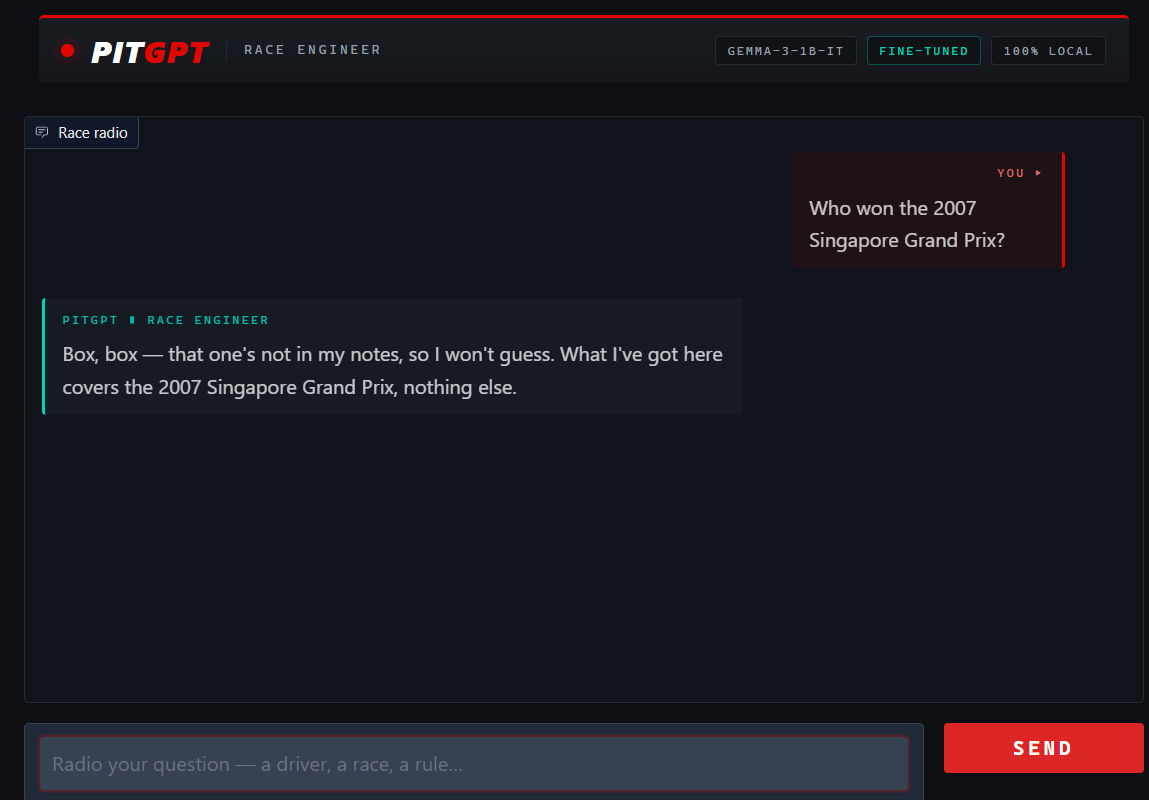
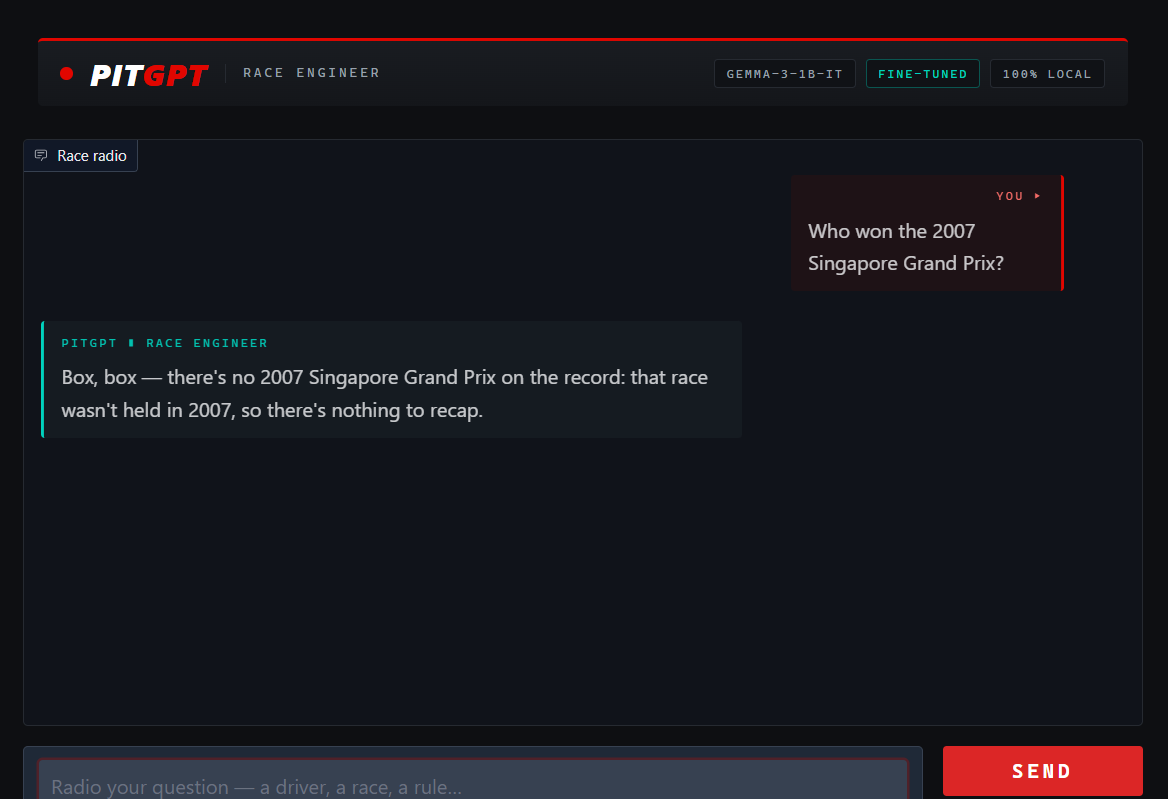
Never-held guard answers for itself; cache-first model loading; showcase repairs
- engine/retriever: when the never-held-race guard fires, reply with
  templates.absence_reply instead of generating. The shipped adapter predates
  the guard and turned its absence fact into a self-contradictory decline
  ("not in my notes ... covers the 2007 Singapore Grand Prix, nothing else").
  Lowercase GP names are re-cased for display. Facts benchmark unchanged:
  90/90 answers identical before and after, 99%.
- model_loader: load from local files first, fall back to the Hub. A cached
  gated model no longer needs a token or the network at startup.
- showcase: chat_trap_question.png re-captured with the new reply;
  training_terminal.png restored and a stray bug screenshot untracked (both
  were swept into f5a871f by mistake); README and LinkedIn kit quote the new
  reply and say it comes from the guard.
- 3 new tests (50 total).

diff --git a/src/pitgpt/inference/engine.py b/src/pitgpt/inference/engine.py
@@ -24,6 +24,7 @@ import torch
 from transformers import TextIteratorStreamer
 
 from pitgpt.config import settings
+from pitgpt.data.templates import absence_reply
 from pitgpt.inference.templating import render_chat
 
 logger = logging.getLogger(__name__)
@@ -126,19 +127,32 @@ def _generation_kwargs(grounded: bool = True) -> dict:
     }
 
 
-def _rag_context(user_prompt: str, use_rag: bool) -> str:
-    """Fetch grounding facts for the prompt (empty if RAG off or no index).
+def _rag_context(user_prompt: str, use_rag: bool) -> tuple[str, str | None]:
+    """Fetch grounding for the prompt: ``(context, absence)``.
+
+    ``context`` is the fact block to inject (empty if RAG off or no index).
 
     RE-ENABLED with the full 2,270-doc hybrid index (dense + BM25 + RRF). The
     earlier 62-doc corpus echoed wrong-entity facts for uncovered names; the
     complete Kaggle-derived knowledge base closes that coverage hole.
+
+    ``absence`` is set instead when the retriever's never-held guard fired:
+    it is the finished reply, and nothing is generated. The shipped adapter
+    predates the guard and improvises on its one-line fact — measured live
+    as the self-contradictory "that one's not in my notes ... What I've got
+    here covers the 2007 Singapore Grand Prix, nothing else", and once as a
+    confabulated recap. Like the radio log, the guard answers for itself, in
+    the format the next adapter is trained on (``templates.absence_reply``).
     """
     if not use_rag:
-        return ""
+        return "", None
     # Imported lazily so inference works even without the RAG deps/index.
-    from pitgpt.rag.retriever import retrieve_context
+    from pitgpt.rag.retriever import format_context, retrieve_facts
 
-    return retrieve_context(user_prompt)
+    facts = retrieve_facts(user_prompt)
+    if len(facts) == 1 and facts[0].get("source") == "absence_guard":
+        return "", absence_reply(facts[0]["year"], facts[0]["gp"])
+    return format_context(facts), None
 
 
 # --- conversation recall: chat history as a retrieval source ---------------- #
@@ -368,7 +382,9 @@ def generate_reply(
             recall, names = _chat_recall(user_prompt, history)
             query = (f"{user_prompt} {' '.join(dict.fromkeys(names))}"
                      if names else user_prompt)
-            context = _rag_context(query, use_rag)
+            context, absence = _rag_context(query, use_rag)
+            if absence is not None:
+                return prefix + absence
             if recall:
                 context = f"{context}\n\n{recall}" if context else recall
     if context:
@@ -428,7 +444,10 @@ def stream_reply(
         recall, names = _chat_recall(user_prompt, history)
         query = (f"{user_prompt} {' '.join(dict.fromkeys(names))}"
                  if names else user_prompt)
-        context = _rag_context(query, use_rag)
+        context, absence = _rag_context(query, use_rag)
+        if absence is not None:
+            yield prefix + absence
+            return
         if recall:
             context = f"{context}\n\n{recall}" if context else recall
     if context:

diff --git a/src/pitgpt/rag/retriever.py b/src/pitgpt/rag/retriever.py
@@ -176,6 +176,15 @@ def _extract_gp(query: str) -> str | None:
     return None
 
 
+def _display_gp(gp_phrase: str) -> str:
+    """Capitalize a GP name typed in lowercase ("abu dhabi Grand Prix") for
+    user-facing text. Words that already carry capitals ("USA") stay as typed."""
+    def cap(part: str) -> str:
+        return part[:1].upper() + part[1:] if part.islower() else part
+    return " ".join("-".join(cap(p) for p in w.split("-"))
+                    for w in gp_phrase.split())
+
+
 def _fold(s: str) -> str:
     """Accent-insensitive lowercase ("Pérez" and "Perez" must both pin)."""
     import unicodedata
@@ -297,12 +306,29 @@ def retrieve_facts(query: str, k: int = 4) -> list[dict]:
                 recovered = [d for d in recovered
                              if gp_match.score(_fold(d.get("text", ""))) == best]
                 return recovered[:k]
+            # year/gp ride along so the engine can answer from the verdict
+            # itself instead of handing this one-liner to the model.
+            name = _display_gp(gp)
             return [{
-                "text": (f"There is no {year} {gp} in the historical race "
+                "text": (f"There is no {year} {name} in the historical race "
                          f"records — that Grand Prix was not held in {year}."),
                 "source": "absence_guard",
+                "year": year,
+                "gp": name,
             }]
     return results
+
+
+def format_context(facts: list[dict]) -> str:
+    """Render fact docs as the compact text block injected into the prompt
+    (empty string for no facts, so the caller can simply skip grounding)."""
+    if not facts:
+        return ""
+    lines = [f"- {f['text']}" for f in facts]
+    return (
+        "Verified F1 facts (rely on these for any names, numbers, teams or results; "
+        "don't contradict them or invent specifics):\n" + "\n".join(lines)
+    )
 
 
 def retrieve_context(query: str, k: int = 4) -> str:
@@ -311,11 +337,4 @@ def retrieve_context(query: str, k: int = 4) -> str:
     Empty string when nothing relevant is found, so the caller can simply skip
     grounding for off-topic or already-known questions.
     """
-    facts = retrieve_facts(query, k=k)
-    if not facts:
-        return ""
-    lines = [f"- {f['text']}" for f in facts]
-    return (
-        "Verified F1 facts (rely on these for any names, numbers, teams or results; "
-        "don't contradict them or invent specifics):\n" + "\n".join(lines)
-    )
+    return format_context(retrieve_facts(query, k=k))

diff --git a/src/pitgpt/inference/model_loader.py b/src/pitgpt/inference/model_loader.py
@@ -43,6 +43,22 @@ def build_quantization_config() -> BitsAndBytesConfig:
     )
 
 
+def _cached_first(loader, model_id: str, **kwargs):
+    """Load from files already on disk; ask the Hub only when they aren't there.
+
+    A plain ``from_pretrained`` checks every file with the Hub before using its
+    cached copy. For a gated model on a machine with no token that check is a
+    401 even when the model is fully cached — measured 2026-10-11 on Gemma's
+    optional ``chat_template.jinja`` probe — and startup needs the network.
+    Cache-first keeps the app local once the model has been downloaded; a
+    first-time load still falls through to the normal download.
+    """
+    try:
+        return loader(model_id, local_files_only=True, **kwargs)
+    except OSError:
+        return loader(model_id, **kwargs)
+
+
 def load_tokenizer(model_id: str | None = None) -> AutoTokenizer:
     """Load the tokenizer and guarantee a pad token exists.
 
@@ -51,7 +67,7 @@ def load_tokenizer(model_id: str | None = None) -> AutoTokenizer:
     token when none is defined — a standard, safe convention.
     """
     model_id = model_id or settings.model.base_model_id
-    tokenizer = AutoTokenizer.from_pretrained(model_id)
+    tokenizer = _cached_first(AutoTokenizer.from_pretrained, model_id)
     if tokenizer.pad_token is None:
         tokenizer.pad_token = tokenizer.eos_token
         logger.info("Tokenizer had no pad token; set pad_token = eos_token.")
@@ -99,7 +115,7 @@ def load_model(
             "Loading %s without quantization (cuda=%s).", model_id, use_cuda
         )
 
-    model = AutoModelForCausalLM.from_pretrained(model_id, **load_kwargs)
+    model = _cached_first(AutoModelForCausalLM.from_pretrained, model_id, **load_kwargs)
 
     if adapter_dir is not None:
         # Imported lazily so that plain inference does not require peft installed.

diff --git a/tests/test_retrieval_routing.py b/tests/test_retrieval_routing.py
@@ -219,6 +219,32 @@ def test_guard_fires_for_gp_abbreviation(fake_retriever):
     assert "2020" in facts[0]["text"] and "Monaco" in facts[0]["text"]
 
 
+def test_engine_answers_absence_without_the_model(fake_retriever):
+    """Measured live 2026-10-11: the shipped adapter turned the guard's fact
+    into "that one's not in my notes ... What I've got here covers the 2007
+    Singapore Grand Prix, nothing else". The guard's verdict is now the reply
+    itself — model=None proves nothing is generated."""
+    from pitgpt.inference import engine as E
+
+    fake_retriever(CORPUS, [RACE_2021_BH])
+    want = ("Box, box — there's no 2020 Monaco Grand Prix on the record: "
+            "that race wasn't held in 2020")
+    for q in ("Who won the 2020 Monaco Grand Prix?",
+              "who won the 2020 monaco gp"):          # lowercase is re-cased
+        assert E.generate_reply(None, None, q).startswith(want), q
+        assert list(E.stream_reply(None, None, q))[-1].startswith(want), q
+
+
+def test_engine_still_grounds_real_races(fake_retriever):
+    from pitgpt.inference import engine as E
+
+    fake_retriever(CORPUS, [RACE_2021_AD])
+    q = "Who won the 2021 Abu Dhabi Grand Prix?"
+    context, absence = E._rag_context(q, True)
+    assert absence is None and "Verstappen" in context
+    assert E._rag_context(q, False) == ("", None)
+
+
 # --------------------------------------------------------------------------- #
 # Corpus: race docs carry their circuit (alias bridge)
 # --------------------------------------------------------------------------- #

diff --git a/tests/test_config_and_imports.py b/tests/test_config_and_imports.py
@@ -53,6 +53,33 @@ def test_modules_import(module):
     importlib.import_module(module)
 
 
+def test_loader_prefers_local_files_then_falls_back_to_hub():
+    """A cached model must load without asking the Hub (a gated repo answers
+    401 with no token even when every file is on disk); an uncached one must
+    still reach the normal download path."""
+    from pitgpt.inference.model_loader import _cached_first
+
+    calls = []
+
+    def cached(model_id, **kwargs):
+        calls.append(kwargs.get("local_files_only", False))
+        return "from-disk"
+
+    assert _cached_first(cached, "some/model", extra=1) == "from-disk"
+    assert calls == [True]                      # the Hub was never consulted
+
+    calls.clear()
+
+    def uncached(model_id, **kwargs):
+        calls.append(kwargs.get("local_files_only", False))
+        if kwargs.get("local_files_only"):
+            raise OSError("not in the local cache")
+        return "from-hub"
+
+    assert _cached_first(uncached, "some/model") == "from-hub"
+    assert calls == [True, False]
+
+
 def test_eval_prompt_set_is_twenty():
     from pitgpt.evaluation.prompts import EVAL_PROMPTS
 

diff --git a/README.md b/README.md
@@ -82,7 +82,7 @@ resource: each phase ships teaching notes and Q&A.
 - 📏 **Two benchmark harnesses** (grounding + factual A/B), resumable JSONL
   runs, markdown scorecards — every claim in this README has a number behind it.
 - 💬 **Streaming Gradio chat**, custom "night race" theme, multi-turn history.
-- 🧩 **Modular `src/` package**, single config source of truth, 47 tests,
+- 🧩 **Modular `src/` package**, single config source of truth, 50 tests,
   phase-by-phase teaching docs with interview Q&A.
 
 ## Architecture
@@ -290,11 +290,14 @@ realistic-context mix that won facts+formats traded declines back down. The
 force-fed mismatched contexts in this benchmark are largely filtered by entity
 pinning in the production path, but the residual is reported as measured.
 One live failure class is closed deterministically: a year+GP query with no
-matching race on record ("2007 Singapore GP" — first held 2008) now injects an
-explicit absence fact instead of near-miss docs, so the model recites "not
-held" rather than restamping a neighbouring year's result — turning its
-strongest behavior (recitation) into the honesty the decline training
-couldn't reliably deliver. Every report is committed under
+matching race on record ("2007 Singapore GP" — first held 2008) is verified
+against the whole corpus and answered by the guard itself — *"Box, box —
+there's no 2007 Singapore Grand Prix on the record: that race wasn't held in
+2007…"* — instead of handing the model near-miss docs to restamp under the
+asked year. The reply is templated, not generated: the shipped adapter
+predates the guard and turned its one-line absence fact into a
+self-contradictory decline, and the retrain that learned to recite it
+regressed elsewhere and was rolled back. Every report is committed under
 `src/pitgpt/evaluation/`.
 
 **The journey, as measurements** (each pivot was driven by a number):

diff --git a/docs/showcase/LINKEDIN_SHOWCASE.md b/docs/showcase/LINKEDIN_SHOWCASE.md
@@ -78,9 +78,11 @@ Screenshot these in order. Each hits a measured strength:
    answers with the 2021 *Abu Dhabi* GP (Verstappen). The corpus bridges
    circuit names to official race names.
 6. **"Who won the 2007 Singapore Grand Prix?"** — **the money shot.** There
-   was no 2007 Singapore GP, and the bot says *"Box, box — that one's not in
-   my notes, so I won't guess"* instead of inventing a race. An AI that
-   declines a trap question is rarer than one that answers well.
+   was no 2007 Singapore GP, and the bot says *"Box, box — there's no 2007
+   Singapore Grand Prix on the record: that race wasn't held in 2007"*
+   instead of inventing a race. (That reply comes from the retrieval guard,
+   not the model — see "Honesty guard" below.) An AI that declines a trap
+   question is rarer than one that answers well.
 7. **Memory flow** — *"My favourite driver is Max Verstappen, ok?"* → a few
    fact questions → *"Who is my favorite driver?"* → *"Checking the radio
    log — your favourite driver on record is Max Verstappen. Checking the
@@ -116,8 +118,9 @@ All three are documented residuals queued for the next adapter iteration.
 3. **Honesty guard**: the knowledge base contains every championship round
    since 1950, so a year+GP query is verified against the *whole corpus* —
    if retrieval missed the doc, the guard recovers it; if no doc exists, the
-   race provably never happened and the model recites the absence instead of
-   hallucinating a neighboring year's result.
+   race provably never happened and the guard says so itself in a fixed
+   reply, so the model never gets the chance to hallucinate a neighboring
+   year's result.
 4. **Chat memory**: a deterministic "radio log" quotes the user's own
    statements back ("who is my favourite driver?"), and pronoun follow-ups
    resolve through labeled recall context — quoted, never imitated.
